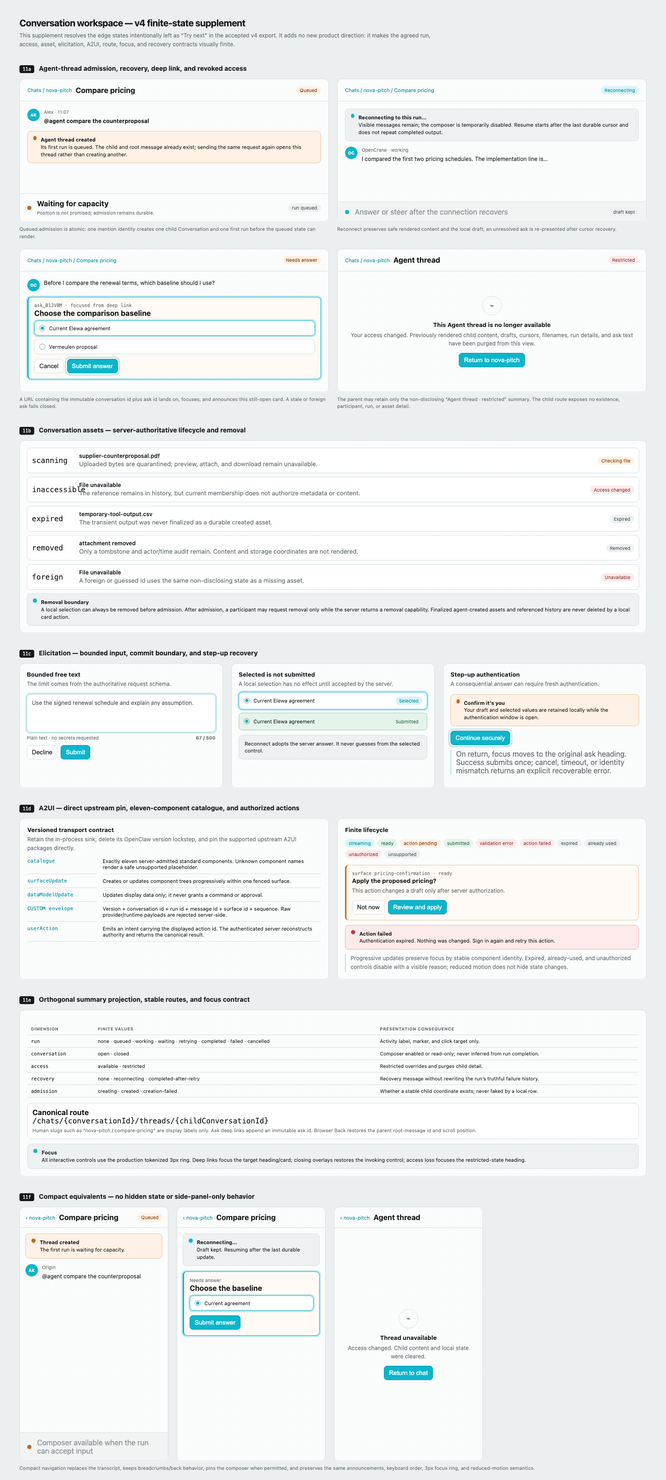
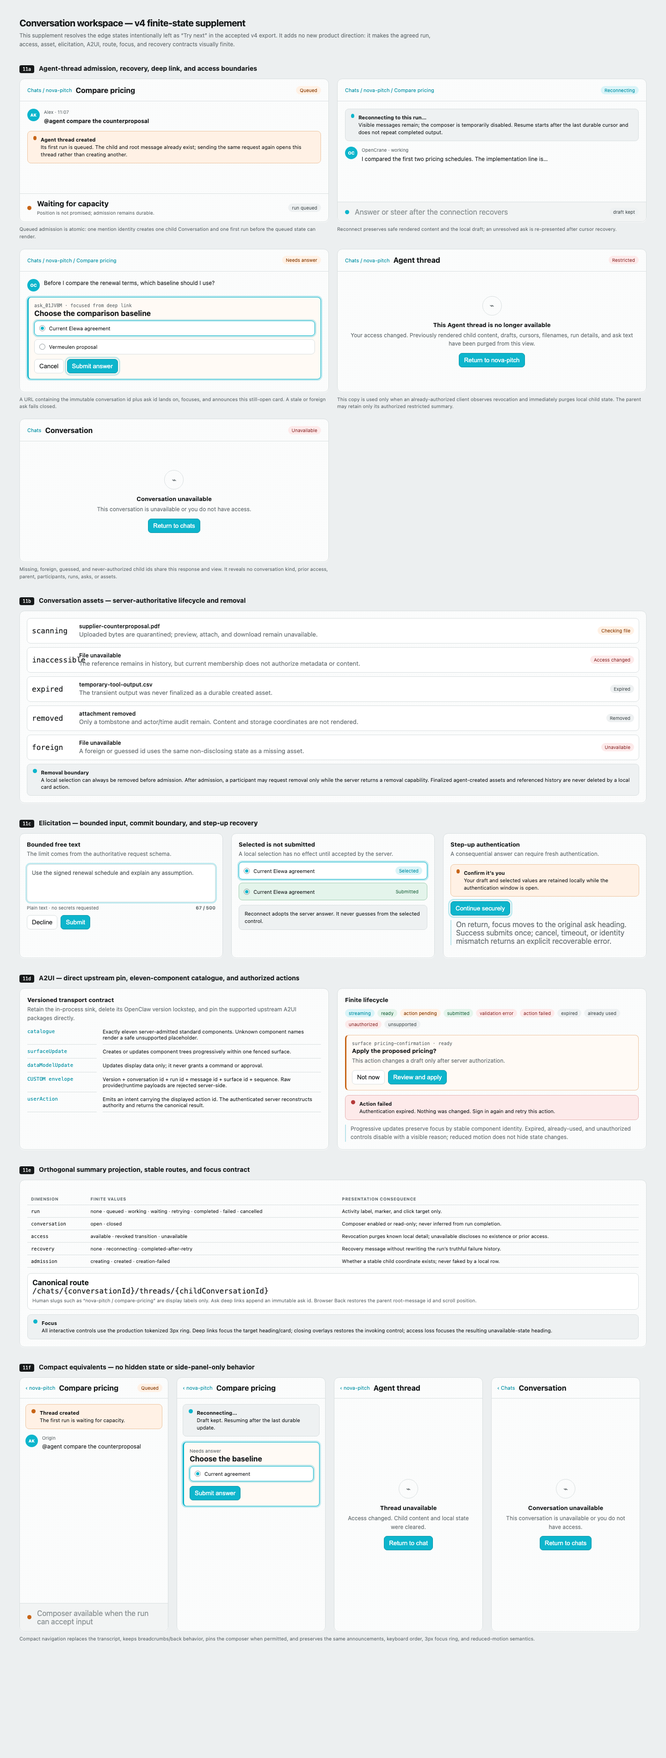
🐛 close conversation design evidence gaps

diff --git a/docs/ui-design/opencrane-conversation-state-supplement.html b/docs/ui-design/opencrane-conversation-state-supplement.html
@@ -93,12 +93,13 @@
 	<p class="intro">This supplement resolves the edge states intentionally left as “Try next” in the accepted v4 export. It adds no new product direction: it makes the agreed run, access, asset, elicitation, A2UI, route, focus, and recovery contracts visually finite.</p>
 
 	<section class="board" id="11a">
-		<div class="board-head"><span class="board-tag">11a</span><h2>Agent-thread admission, recovery, deep link, and revoked access</h2></div>
+		<div class="board-head"><span class="board-tag">11a</span><h2>Agent-thread admission, recovery, deep link, and access boundaries</h2></div>
 		<div class="grid">
 			<div><article class="paper window"><header class="window-head"><span class="crumb">Chats / nova-pitch</span><strong>Compare pricing</strong><span class="spacer"></span><span class="pill orange">Queued</span></header><div class="transcript"><div class="message"><span class="avatar">AK</span><div class="bubble"><div class="meta">Alex · 11:07</div><strong>@agent compare the counterproposal</strong></div></div><div class="notice orange"><span class="dot orange"></span><div><strong>Agent thread created</strong><br>Its first run is queued. The child and root message already exist; sending the same request again opens this thread rather than creating another.</div></div></div><footer class="queue"><span class="dot orange"></span><div><strong>Waiting for capacity</strong><br><span class="meta">Position is not promised; admission remains durable.</span></div><span class="pill">run queued</span></footer></article><p class="caption">Queued admission is atomic: one mention identity creates one child Conversation and one first run before the queued state can render.</p></div>
 			<div><article class="paper window"><header class="window-head"><span class="crumb">Chats / nova-pitch / Compare pricing</span><span class="spacer"></span><span class="pill cyan">Reconnecting</span></header><div class="transcript"><div class="notice"><span class="dot"></span><div><strong>Reconnecting to this run…</strong><br>Visible messages remain; the composer is temporarily disabled. Resume starts after the last durable cursor and does not repeat completed output.</div></div><div class="message"><span class="avatar">OC</span><div class="bubble"><div class="meta">OpenCrane · working</div>I compared the first two pricing schedules. The implementation line is…</div></div></div><footer class="queue disabled"><span class="dot"></span><div>Answer or steer after the connection recovers</div><span class="pill">draft kept</span></footer></article><p class="caption">Reconnect preserves safe rendered content and the local draft; an unresolved ask is re-presented after cursor recovery.</p></div>
 			<div><article class="paper window"><header class="window-head"><span class="crumb">Chats / nova-pitch / Compare pricing</span><span class="spacer"></span><span class="pill orange">Needs answer</span></header><div class="transcript"><div class="message"><span class="avatar">OC</span><div class="bubble">Before I compare the renewal terms, which baseline should I use?</div></div><div class="ask focused"><div class="meta mono">ask_01JV8M · focused from deep link</div><strong>Choose the comparison baseline</strong><div class="choice selected"><span class="radio checked"></span>Current Elewa agreement</div><div class="choice"><span class="radio"></span>Vermeulen proposal</div><div class="actions"><button>Cancel</button><button class="primary focused-control">Submit answer</button></div></div></div></article><p class="caption">A URL containing the immutable conversation id plus ask id lands on, focuses, and announces this still-open card. A stale or foreign ask fails closed.</p></div>
-			<div><article class="paper window"><header class="window-head"><span class="crumb">Chats / nova-pitch</span><strong>Agent thread</strong><span class="spacer"></span><span class="pill red">Restricted</span></header><div class="revoked"><div><div class="lock">⌁</div><h3>This Agent thread is no longer available</h3><p style="margin-top:6px;color:var(--muted)">Your access changed. Previously rendered child content, drafts, cursors, filenames, run details, and ask text have been purged from this view.</p><div class="actions" style="justify-content:center"><button class="primary">Return to nova-pitch</button></div></div></div></article><p class="caption">The parent may retain only the non-disclosing “Agent thread · restricted” summary. The child route exposes no existence, participant, run, or asset detail.</p></div>
+			<div><article class="paper window"><header class="window-head"><span class="crumb">Chats / nova-pitch</span><strong>Agent thread</strong><span class="spacer"></span><span class="pill red">Restricted</span></header><div class="revoked"><div><div class="lock">⌁</div><h3>This Agent thread is no longer available</h3><p style="margin-top:6px;color:var(--muted)">Your access changed. Previously rendered child content, drafts, cursors, filenames, run details, and ask text have been purged from this view.</p><div class="actions" style="justify-content:center"><button class="primary">Return to nova-pitch</button></div></div></div></article><p class="caption">This copy is used only when an already-authorized client observes revocation and immediately purges local child state. The parent may retain only its authorized restricted summary.</p></div>
+			<div><article class="paper window"><header class="window-head"><span class="crumb">Chats</span><strong>Conversation</strong><span class="spacer"></span><span class="pill red">Unavailable</span></header><div class="revoked"><div><div class="lock">⌁</div><h3>Conversation unavailable</h3><p style="margin-top:6px;color:var(--muted)">This conversation is unavailable or you do not have access.</p><div class="actions" style="justify-content:center"><button class="primary">Return to chats</button></div></div></div></article><p class="caption">Missing, foreign, guessed, and never-authorized child ids share this response and view. It reveals no conversation kind, prior access, parent, participants, runs, asks, or assets.</p></div>
 		</div>
 	</section>
 
@@ -133,7 +134,7 @@
 
 	<section class="board" id="11e">
 		<div class="board-head"><span class="board-tag">11e</span><h2>Orthogonal summary projection, stable routes, and focus contract</h2></div>
-		<article class="paper protocol"><table class="table"><thead><tr><th>Dimension</th><th>Finite values</th><th>Presentation consequence</th></tr></thead><tbody><tr><td class="mono">run</td><td>none · queued · working · waiting · retrying · completed · failed · cancelled</td><td>Activity label, marker, and click target only.</td></tr><tr><td class="mono">conversation</td><td>open · closed</td><td>Composer enabled or read-only; never inferred from run completion.</td></tr><tr><td class="mono">access</td><td>available · restricted</td><td>Restricted overrides and purges child detail.</td></tr><tr><td class="mono">recovery</td><td>none · reconnecting · completed-after-retry</td><td>Recovery message without rewriting the run’s truthful failure history.</td></tr><tr><td class="mono">admission</td><td>creating · created · creation-failed</td><td>Whether a stable child coordinate exists; never faked by a local row.</td></tr></tbody></table><div class="route"><strong>Canonical route</strong><br><code>/chats/{conversationId}/threads/{childConversationId}</code><br><span class="caption">Human slugs such as “nova-pitch / compare-pricing” are display labels only. Ask deep links append an immutable ask id. Browser Back restores the parent root-message id and scroll position.</span></div><div class="notice" style="margin-top:10px"><span class="dot"></span><div><strong>Focus</strong><br>All interactive controls use the production tokenized 3px ring. Deep links focus the target heading/card; closing overlays restores the invoking control; access loss focuses the restricted-state heading.</div></div></article>
+		<article class="paper protocol"><table class="table"><thead><tr><th>Dimension</th><th>Finite values</th><th>Presentation consequence</th></tr></thead><tbody><tr><td class="mono">run</td><td>none · queued · working · waiting · retrying · completed · failed · cancelled</td><td>Activity label, marker, and click target only.</td></tr><tr><td class="mono">conversation</td><td>open · closed</td><td>Composer enabled or read-only; never inferred from run completion.</td></tr><tr><td class="mono">access</td><td>available · revoked transition · unavailable</td><td>Revocation purges known local detail; unavailable discloses no existence or prior access.</td></tr><tr><td class="mono">recovery</td><td>none · reconnecting · completed-after-retry</td><td>Recovery message without rewriting the run’s truthful failure history.</td></tr><tr><td class="mono">admission</td><td>creating · created · creation-failed</td><td>Whether a stable child coordinate exists; never faked by a local row.</td></tr></tbody></table><div class="route"><strong>Canonical route</strong><br><code>/chats/{conversationId}/threads/{childConversationId}</code><br><span class="caption">Human slugs such as “nova-pitch / compare-pricing” are display labels only. Ask deep links append an immutable ask id. Browser Back restores the parent root-message id and scroll position.</span></div><div class="notice" style="margin-top:10px"><span class="dot"></span><div><strong>Focus</strong><br>All interactive controls use the production tokenized 3px ring. Deep links focus the target heading/card; closing overlays restores the invoking control; access loss focuses the resulting unavailable-state heading.</div></div></article>
 	</section>
 
 	<section class="board" id="11f">
@@ -142,6 +143,7 @@
 			<article class="paper window phone"><header class="window-head"><span class="crumb">‹ nova-pitch</span><strong>Compare pricing</strong><span class="spacer"></span><span class="pill orange">Queued</span></header><div class="transcript"><div class="notice orange"><span class="dot orange"></span><div><strong>Thread created</strong><br>The first run is waiting for capacity.</div></div><div class="message"><span class="avatar">AK</span><div class="bubble"><div class="meta">Origin</div>@agent compare the counterproposal</div></div></div><footer class="queue disabled"><span class="dot orange"></span><div>Composer available when the run can accept input</div></footer></article>
 			<article class="paper window phone"><header class="window-head"><span class="crumb">‹ nova-pitch</span><strong>Compare pricing</strong></header><div class="transcript"><div class="notice"><span class="dot"></span><div><strong>Reconnecting…</strong><br>Draft kept. Resuming after the last durable update.</div></div><div class="ask focused"><div class="meta">Needs answer</div><strong>Choose the baseline</strong><div class="choice selected"><span class="radio checked"></span>Current agreement</div><div class="actions"><button class="primary">Submit answer</button></div></div></div></article>
 			<article class="paper window phone"><header class="window-head"><span class="crumb">‹ nova-pitch</span><strong>Agent thread</strong></header><div class="revoked"><div><div class="lock">⌁</div><h3>Thread unavailable</h3><p style="margin-top:6px;color:var(--muted)">Access changed. Child content and local state were cleared.</p><div class="actions" style="justify-content:center"><button class="primary">Return to chat</button></div></div></div></article>
+			<article class="paper window phone"><header class="window-head"><span class="crumb">‹ Chats</span><strong>Conversation</strong></header><div class="revoked"><div><div class="lock">⌁</div><h3>Conversation unavailable</h3><p style="margin-top:6px;color:var(--muted)">This conversation is unavailable or you do not have access.</p><div class="actions" style="justify-content:center"><button class="primary">Return to chats</button></div></div></div></article>
 		</div>
 		<p class="caption">Compact navigation replaces the transcript, keeps breadcrumbs/back behavior, pins the composer when permitted, and preserves the same announcements, keyboard order, 3px focus ring, and reduced-motion semantics.</p>
 	</section>

diff --git a/docs/user-stories/workspace-and-conversations.md b/docs/user-stories/workspace-and-conversations.md
@@ -2,9 +2,9 @@
 
 ## Feature intent
 
-Provide the personal workspace where a user starts, resumes, and understands conversations with
-their agent. The transcript is server-authoritative and recoverable; the browser is a client, not
-the conversation ledger.
+Provide the workspace where participants start, resume, and understand agent sessions, direct chats,
+and group chats. The conversation and its ordered timeline are server-authoritative and recoverable;
+the browser is a client, not the conversation ledger.
 
 Current status: `API blocked` for the ordinary workspace journey. The onboarding-owned guided
 exchange and bounded event replay are `API ready`; ordinary thread discovery, creation, prompt
@@ -34,20 +34,21 @@ Acceptance criteria:
 
 Status: `API blocked`; there is no public thread-list endpoint.
 
-## CON-02 — Start a new conversation
+## CON-02 — Start a mode-bound conversation
 
-**As a** user, **I want** to create a conversation **so that** I have an authoritative thread before
-starting a run.
+**As a** user, **I want** to create a conversation in one supported mode **so that** its behaviour is
+authoritative before the first message or run.
 
 Acceptance criteria:
 
-- Thread creation is idempotent or returns a single canonical thread ID.
+- Conversation creation is idempotent or returns a single canonical conversation ID.
 - The server derives the participant and silo.
+- The immutable mode is `agent_session`, `direct`, or `group`; only an agent session binds an agent.
 - Creation failure does not leave a local-only conversation that appears durable.
 
 Status: `API blocked`; there is no public thread-create endpoint.
 
-## CON-03 — Send the initiating prompt
+## CON-03 — Send input to an agent session
 
 **As a** user, **I want** to submit a message in a conversation **so that** my personal agent can
 perform a governed run.
@@ -55,7 +56,10 @@ perform a governed run.
 Acceptance criteria:
 
 - The user sees queued, accepted, denied, capacity-limited, and unavailable outcomes.
-- Duplicate submission is prevented or safely idempotent.
+- The admitted user message and its run commit atomically, and duplicate submission resolves to the
+  same canonical result.
+- A later ordinary question starts the next serial run; steering or elicitation answers target the
+  active run and cannot bypass run authority.
 - Attachments are included only after an authoritative upload/attachment contract exists.
 - The browser never supplies silo, membership, persona, memory dataset, or tool authority.
 
@@ -71,7 +75,8 @@ Acceptance criteria:
 
 - The client accepts SSE events in server order and persists only a resumable opaque cursor.
 - Query cursor and `Last-Event-ID` conflicts are handled explicitly.
-- Missing or foreign threads render as an empty non-disclosing stream.
+- Missing, foreign, wrongly nested, and never-authorized conversations return one non-disclosing
+  unavailable response rather than an existence-bearing stream.
 - Rendering supports typical, long, tool-related, approval-related, terminal, and malformed-safe
   display states.
 
@@ -97,8 +102,61 @@ continue without granting the rendered component authority.
 
 Acceptance criteria:
 
-- Every action is returned through a typed, authenticated, run/thread-bound public API.
+- Every action is returned through a typed, authenticated, run/conversation-bound public API.
 - Disabled, expired, already-used, approval-required, and failed actions are finite states.
 - A2UI rendering never performs privileged HTTP calls directly.
 
 Status: `API blocked`; render primitives exist, but there is no public action-return protocol.
+
+## CON-07 — Use immutable modes and mode-correct message admission
+
+**As a** conversation participant, **I want** each chat to retain one mode **so that** ordinary
+messages and agent work cannot silently cross authority boundaries.
+
+Acceptance criteria:
+
+- The persisted immutable mode is `agent_session`, `direct`, or `group`; only an agent session binds
+  exactly one agent service.
+- Every agent-session input goes through run admission, while ordinary direct and group messages
+  never create `AgentRun` records.
+- Message admission is participant-, silo-, join-boundary-, lifecycle-, and idempotency-bound.
+- A single server-owned timeline sequence orders participant messages and linked run projections
+  without deriving order from browser clocks.
+- Unsupported mode commands fail closed.
+
+Status: `API blocked`; no public ordinary-message admission or mixed conversation timeline exists.
+
+## CON-08 — Join, read, close, and archive independently
+
+**As a** participant, **I want** lifecycle, personal visibility, and access changes to stay distinct
+**so that** a completed conversation cannot reopen and private history is not disclosed.
+
+Acceptance criteria:
+
+- Join visibility and unread position are durable participant-specific timeline coordinates.
+- Close is monotonic and makes the conversation read-only; archive is a reversible participant-local
+  list state.
+- Completed onboarding appears as a closed/read-only conversation and can be archived independently.
+- A revoked client purges child content, drafts, cursors, filenames, run details, and ask text before
+  rendering its access-changed state.
+- Missing, foreign, guessed, and never-authorized child IDs return the same unavailable response and
+  view, revealing no conversation kind, parent, participants, runs, assets, or prior access.
+
+Status: `API blocked`; current persistence conflates conversation lifecycle and archive visibility.
+
+## CON-09 — Open a group Agent thread
+
+**As a** group participant, **I want** an explicit `@agent` message to open a child Agent thread
+**so that** governed agent work stays separate while useful outcomes can return to the group.
+
+Acceptance criteria:
+
+- The trigger remains an ordinary parent message; one idempotent admission creates one child
+  `agent_session` conversation and its first run atomically.
+- Parent and child retain independent history, cursors, unread position, and closed state.
+- The child opens in the main workspace through immutable-id breadcrumbs, not a side panel or window.
+- Child deliveries are append-only, sanitized, immediate-parent-only references for status,
+  questions, approvals, results, failures, and finalized assets; they cannot mutate parent history.
+- Later questions inside the child create serial follow-up runs.
+
+Status: `API blocked`; child-conversation admission and upward delivery do not exist.

diff --git a/docs/adr/0012-conversation-modes-and-agent-thread-authority.md b/docs/adr/0012-conversation-modes-and-agent-thread-authority.md
@@ -1,0 +1,88 @@
+# ADR 0012 — Conversation modes and Agent-thread authority
+
+- **Status:** Accepted
+- **Date:** 2026-08-10
+- **Tasks:** [#600](https://github.com/elewa-git/opencrane/issues/600) ·
+  [#601](https://github.com/elewa-git/opencrane/issues/601)
+- **Related:** [#319](https://github.com/elewa-git/opencrane/issues/319) ·
+  [#351](https://github.com/elewa-git/opencrane/issues/351) ·
+  [ADR 0010](0010-language-neutral-agent-runtime.md)
+
+## Context
+
+The current `Thread` shape assumes every conversation belongs to one agent service and derives its
+display history from run events. That assumption cannot represent direct or group messages without
+inventing runs, and it cannot represent an Agent thread as a durable child conversation with its own
+history. Lifecycle and personal list visibility are also conflated, while run timestamps cannot
+provide one deterministic order for a timeline that contains participant messages and run events.
+
+## Decision
+
+- `Conversation` is the durable aggregate and **Chat** is its user-facing name. Every conversation
+  stores exactly one immutable, string-backed mode: `agent_session`, `direct`, or `group`.
+- An exhaustive discriminated strategy registry, selected only from the persisted mode, owns the
+  commands allowed by each mode. Mode-specific behaviour is composed through that registry rather
+  than class inheritance, request state, browser state, or repeated mode conditionals. Unsupported
+  commands deny fail closed.
+- `agent_session` requires exactly one agent service; `direct` and `group` prohibit one. Every new
+  user question in an agent session admits a run, with at most one foreground run; steering and
+  elicitation answers remain bound to that active run, while later questions serialize. Direct and
+  ordinary group messages never create synthetic runs.
+- Conversation lifecycle is open or monotonically closed. Archive, unread position, join visibility,
+  and access end are participant-local coordinates and never reopen or rewrite the conversation.
+- One database-owned, append-only monotonic position per conversation orders participant messages,
+  safe run-backed projections, membership/system events, and parent deliveries in the canonical
+  timeline. Cursors bind the conversation plus position, retries bind durable idempotency keys, and
+  browser time or run-local event order never becomes cross-source authority.
+- An authorized group `@agent` message remains in the parent timeline and idempotently creates one
+  child `agent_session` conversation, its origin-parent-message binding, participants, and first run
+  atomically. Parent and child keep independent history, cursors, unread position, participants, and
+  lifecycle.
+- A child may append sanitized, typed deliveries to its immediate parent for status, questions,
+  approvals, results, failures, and finalized asset references. Delivery cannot impersonate a
+  participant, mutate existing parent history, cross an ancestor boundary, or carry secret-bearing
+  runtime payloads.
+- Parent summaries project orthogonal run, conversation, access, recovery, and admission facts; no
+  stored mega-enum combines those independent state machines.
+- Public routes use immutable conversation identifiers. The server derives silo, membership, agent,
+  run, and proof coordinates. Missing child identifiers, foreign children, wrong parent/child pairs,
+  guessed identifiers, and never-authorized callers share one unavailable status, body, cache policy,
+  and view. Only when the server proves that the same authenticated subject previously held durable
+  child authorization may a client render an access-changed transition. Parent access, browser cache,
+  or identifier possession is insufficient. Before rendering, the client synchronously purges all
+  child-keyed rendered content, drafts, cursors and `Last-Event-ID`, query/persistent caches,
+  filenames, run/ask details, and history-restoration state.
+- Run admission and canonical `RunEvent` storage remain the execution authority. Conversation
+  projection may expose bounded run state but cannot create a second approval, tool, artifact, or
+  execution authority.
+
+## Alternatives considered
+
+- **Keep one agent-bound thread type** — rejected because direct and group messages would require
+  fake runs or nullable invariants scattered across callers.
+- **Allow mode changes** — rejected because changing mode would reinterpret persisted history and
+  its authority after the fact.
+- **Use an inheritance hierarchy** — rejected because persistence and API boundaries still need one
+  stable discriminator, while a registry makes supported commands exhaustive and testable.
+- **Treat Agent threads as run children or UI-only side panels** — rejected because they need durable
+  participants, history, unread state, follow-up runs, routes, and parent communication. Runtime
+  subagents remain governed child runs and are a separate concept.
+- **Merge messages and run events by timestamp** — rejected because clocks and concurrent commits do
+  not provide a stable replay cursor.
+- **Return distinct not-found and unauthorized child states** — rejected because the difference
+  discloses conversation existence and kind to a probing participant.
+
+## Consequences
+
+- The conversation model, public API, generated client, and UI use the mode vocabulary and strategy
+  ownership together; compatibility aliases for the superseded mandatory-agent `Thread` contract are
+  not added.
+- Existing unambiguous agent-bound records migrate to `agent_session`. Ambiguous mode, lifecycle,
+  participant, timeline, or active-run state fails the upgrade rather than being guessed.
+- Message/run admission and timeline allocation require one transaction boundary. Replay consumes the
+  canonical timeline instead of independently merging storage sources.
+- Breadcrumb Agent-thread navigation replaces a side-panel-only experience and restores the exact
+  parent root message and scroll position on return.
+- Authorization tests must prove that direct and group messages cannot start runs, agent-session input
+  cannot bypass runs, upward delivery cannot escape the immediate parent, and unavailable routes do
+  not reveal existence or prior access.

diff --git a/docs/ui-design/README.md b/docs/ui-design/README.md
@@ -30,9 +30,10 @@ qualification remain separate exit gates in [`plan.md`](../../plan.md).
 Supplement boards `11a` through `11f` close the v4 design gaps without changing its primary
 workspace composition:
 
-- `11a` renders queued Agent-thread admission, active reconnect, direct ask-card deep links, and the
-  fully revoked child route. Revocation purges rendered child content, drafts, cursors, filenames,
-  run details, and ask text; only a non-disclosing restricted parent summary remains.
+- `11a` renders queued Agent-thread admission, active reconnect, direct ask-card deep links, the
+  revoked-client transition, and the indistinguishable unavailable route. Revocation purges rendered
+  child content, drafts, cursors, filenames, run details, and ask text; missing, foreign, guessed,
+  and never-authorized child ids reveal neither conversation kind nor prior access.
 - `11b` renders scanning, inaccessible, expired, removed, and foreign asset states. Local selections
   are removable before admission; after admission the server must return a removal capability.
 - `11c` makes free text visibly bounded, separates local selection from authoritative submission,

diff --git a/docs/adr/0008-target-agent-contracts-and-workload-identity.md b/docs/adr/0008-target-agent-contracts-and-workload-identity.md
@@ -1,11 +1,13 @@
 # ADR 0008 — Agent contracts and workload identity
 
 - **Status:** Accepted; artifact-read and prompt-compiler placement clarified by
-  [ADR 0011](0011-single-run-input-and-artifact-read-authorities.md)
+  [ADR 0011](0011-single-run-input-and-artifact-read-authorities.md); the universal `Thread` aggregate
+  and run-hierarchy clause superseded by [ADR 0012](0012-conversation-modes-and-agent-thread-authority.md)
 - **Date:** 2026-07-18
 - **Task:** `#245`
 - **Related:** [product contract](../design/personal-agent-platform-product-contract.md) ·
-  [platform architecture](../design/personal-agent-platform-architecture.md)
+  [platform architecture](../design/personal-agent-platform-architecture.md) ·
+  [ADR 0012](0012-conversation-modes-and-agent-thread-authority.md)
 
 ## Context
 

diff --git a/plan.md b/plan.md
@@ -317,7 +317,9 @@ asset removal/availability, bounded elicitation, immutable route coordinates, or
 state, production focus, and the A2UI count/protocol decision. The retained A2UI sink is re-pinned
 directly to supported upstream A2UI packages and loses its OpenClaw lockstep. F1.1 is closed: the
 component-manager validated the supplement against the live catalogue and returned `PASS` on
-2026-08-10.
+2026-08-10. The matching product contract is frozen in
+[workspace and conversation user stories](./docs/user-stories/workspace-and-conversations.md) and
+[ADR 0012](./docs/adr/0012-conversation-modes-and-agent-thread-authority.md).
 
 | Step | Outcome | Owning GitHub issues | Exit gate |
 |---|---|---|---|

diff --git a/docs/adr/README.md b/docs/adr/README.md
@@ -14,6 +14,7 @@ ground a published page, but it is not itself published.
 | [0008](0008-target-agent-contracts-and-workload-identity.md) | Agent contracts and workload identity | Accepted; clarified by 0011 |
 | [0010](0010-language-neutral-agent-runtime.md) | Language-neutral agent runtime | Accepted |
 | [0011](0011-single-run-input-and-artifact-read-authorities.md) | Single run-input and artifact-read authorities | Accepted |
+| [0012](0012-conversation-modes-and-agent-thread-authority.md) | Conversation modes and Agent-thread authority | Accepted |
 
 ## Writing a new ADR
 
